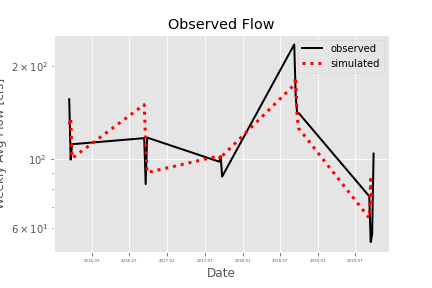
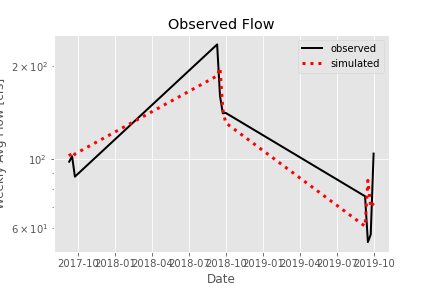
cleaned up the mess a tad

diff --git a/assignment_6/Noonan_HW6_draft.py b/assignment_6/Noonan_HW6_draft.py
@@ -25,15 +25,16 @@ data=pd.read_table(filepath, sep = '\t', skiprows=30,
         )
 
 #%%
-# Expand the dates to year month day
+# Expand the dates to year month day 
+# **corrected third line to ".day"
 data['year'] = pd.DatetimeIndex(data['datetime']).year
 data['month'] = pd.DatetimeIndex(data['datetime']).month
-data['day'] = pd.DatetimeIndex(data['datetime']).dayofweek
+data['day'] = pd.DatetimeIndex(data['datetime']).day
 data['dayofweek'] = pd.DatetimeIndex(data['datetime']).dayofweek
 
 #%%
 # View data format - data
-data.head(3)
+data.head(15)
 
 #%%
 # Aggregate flow values to weekly 
@@ -47,20 +48,20 @@ flow_weekly['flow_tm2'] = flow_weekly['flow'].shift(2)
 
 #%%
 # View flow_weekly format
+# 1658 rows x 8 columns
 flow_weekly
 
 #%%
 #TEST 1
 # set training and test data sets for one-week forecast - 10/4 to 10/10
-# train period is September data for 2015 - 2019
-#test period is September 2020
-# grabbing these dates historically 
+# train period is September data only for 2017 - 2019
+# using last 10 weeks for test data
 month1 = 9
 year_trainmin = 2017
 year_trainmax = 2019
-year_test1 = 2020
 train = flow_weekly[(flow_weekly["month"]==month1) & (flow_weekly["year"] >=year_trainmin)&(flow_weekly["year"] <=year_trainmax)][['month','flow', 'flow_tm1', 'flow_tm2']]
-test = flow_weekly[(flow_weekly["month"]==month1) & (flow_weekly["year"] == 2020)][['month', 'flow', 'flow_tm1', 'flow_tm2']]
+test = flow_weekly[1648:][['flow', 'flow_tm1', 'flow_tm2']]
+print ("good luck!")
 
 #%%
 # view train period data
@@ -102,17 +103,13 @@ fig.savefig('One-week(Test1).png')
 # Predict the model response for a  given flow value
 q_pred_train = model.predict(train['flow_tm1'].values.reshape(-1,1))
 q_pred_test = model.predict(test['flow_tm1'].values.reshape(-1,1))
+print(q_pred_test)
 
 #%%
 # you could also predict the q for just a single value like this
 last_week_flow = 56
 prediction = model.intercept_ + model.coef_ * last_week_flow
 print(prediction)
-
-# #%%
-# for i in range(len(flow_weekly)):
-#         if "month" == 9:
-#                 print(flow_weekly['flow'].min())
         
 #%%
 # 3. Line  plot comparison of predicted and observed flows
@@ -136,12 +133,146 @@ ax.plot(np.sort(train['flow_tm1']), np.sort(q_pred_train), label='AR model')
 ax.legend()
 fig.savefig('One-week(Test1)_(t-vs-(t-1)).png')
 
-# For your written assignment provide the following. Your submission should include at least 3 different types of plots (see the note at the end of the previous section for how to add these into your markdown file if you are not sure how to do that):
 
-# A summary of the AR model that you ended up building, including (1) what you are using as your prediction variables, (2) the final equation for your model and (3) what you used as your testing and training periods. In your discussion please include graphical outputs that support why you made the decisions you did with your model.
 
-# Provide an analysis of your final model performance. This should include at least one graph that shows the historical vs predicted streamflow and some discussion of qualitatively how you think your model is good or bad.
 
-# Finally, provide discussion on what you actually used for your forecast. Did you use your AR model, why or why not? If not how did you generate your forecast this week?
+
+# %%
+#WEEKLY FORECAST WEEK 6
+#import dataframe_image to export tables to png
+import dataframe_image as dfi
+#%%
+data
+
+# 1week forecast - look at last 7 days
+# %%
+data_weekly = data.tail(7)
+data_weekly
+
+#%%
+# look at prior week stats
+df = data_weekly[["flow"]].describe()
+print(df)
+dfi.export(df, "Last7days-stats.png")
+
+# %%
+# look at trend over last two weeks
+data_two_wks = data.tail(14)
+fig, ax = plt.subplots()
+
+ax.plot(data_two_wks.datetime, data_two_wks.flow)
+ax.set(title="Two-week flow trend")
+ax.set(xlabel='Date', ylabel='Daily Flow (cfs)')
+plt.rc('xtick', labelsize=7)
+plt.show()
+fig.savefig('Two-week-Trend_(Old-Code).png')
+
+#%%
+# 2week forecast - Oct11-17 min
+month = 10
+day_more = 11
+day_less = 17
+
+data_two_week = data[(data["month"]==month) & (data["day"] >=day_more) & (data["day"] <=day_less)]
+data_two_week["flow"].min()
+
+# %%
+#seasonal wk6 historical min
+month1 = 9
+day1 = 27
+month2 = 10
+day2 = 3
+data_seasonal_6 = data[((data["month"]==month1) & (data["day"] >=day1)) | ((data["month"] ==month2) & (data["day"] <=day2))]
+data_seasonal_6["flow"].min()
+
+# %%
+#seasonal wk7 historical min
+month = 10
+day_more = 4
+day_less = 10
+
+data_two_week = data[(data["month"]==month) & (data["day"] >=day_more) & (data["day"] <=day_less)]
+data_two_week["flow"].min()
+
+# %%
+#seasonal wk8 historical min
+month = 10
+day_more = 11
+day_less = 17
+
+data_two_week = data[(data["month"]==month) & (data["day"] >=day_more) & (data["day"] <=day_less)]
+data_two_week["flow"].min()
+
+# %%
+#seasonal wk9 historical min
+month = 10
+day_more = 18
+day_less = 24
+
+data_two_week = data[(data["month"]==month) & (data["day"] >=day_more) & (data["day"] <=day_less)]
+data_two_week["flow"].min()
+
+# %%
+#seasonal wk10 historical min
+month = 10
+day_more = 25
+day_less = 31
+
+data_two_week = data[(data["month"]==month) & (data["day"] >=day_more) & (data["day"] <=day_less)]
+data_two_week["flow"].min()
+
+# %%
+#seasonal wk11 historical min
+month = 11
+day_more = 1
+day_less = 7
+
+data_two_week = data[(data["month"]==month) & (data["day"] >=day_more) & (data["day"] <=day_less)]
+data_two_week["flow"].min()
+
+# %%
+#seasonal wk12 historical min
+month = 11
+day_more = 8
+day_less = 14
+
+data_two_week = data[(data["month"]==month) & (data["day"] >=day_more) & (data["day"] <=day_less)]
+data_two_week["flow"].min()
+
+# %%
+#seasonal wk13 historical min
+month = 11
+day_more = 15
+day_less = 21
+
+data_two_week = data[(data["month"]==month) & (data["day"] >=day_more) & (data["day"] <=day_less)]
+data_two_week["flow"].min()
+
+# %%
+#seasonal wk14 historical min
+month = 11
+day_more = 22
+day_less = 28
+
+data_two_week = data[(data["month"]==month) & (data["day"] >=day_more) & (data["day"] <=day_less)]
+data_two_week["flow"].min()
+
+# %%
+#seasonal wk15 historical min
+month1 = 11
+day1 = 29
+month2 = 12
+day2 = 5
+data_seasonal_6 = data[((data["month"]==month1) & (data["day"] >=day1)) | ((data["month"] ==month2) & (data["day"] <=day2))]
+data_seasonal_6["flow"].min()
+
+# %%
+#seasonal wk15 historical min
+month = 12
+day_more = 6
+day_less = 12
+
+data_two_week = data[(data["month"]==month) & (data["day"] >=day_more) & (data["day"] <=day_less)]
+data_two_week["flow"].min()
 
 # %%

diff --git a/Submissions/Noonan_HW6.md b/Submissions/Noonan_HW6.md
@@ -15,7 +15,7 @@ ___
 
 - **(2) the final equation for your model**
 
-  - x(t) = m * x(t+1) + b = 0.7 * x(t+1) + 31.95
+  - x(t) = m * x(t-1) + b = 0.7 * x(t-1) + 31.95
 
 
 
